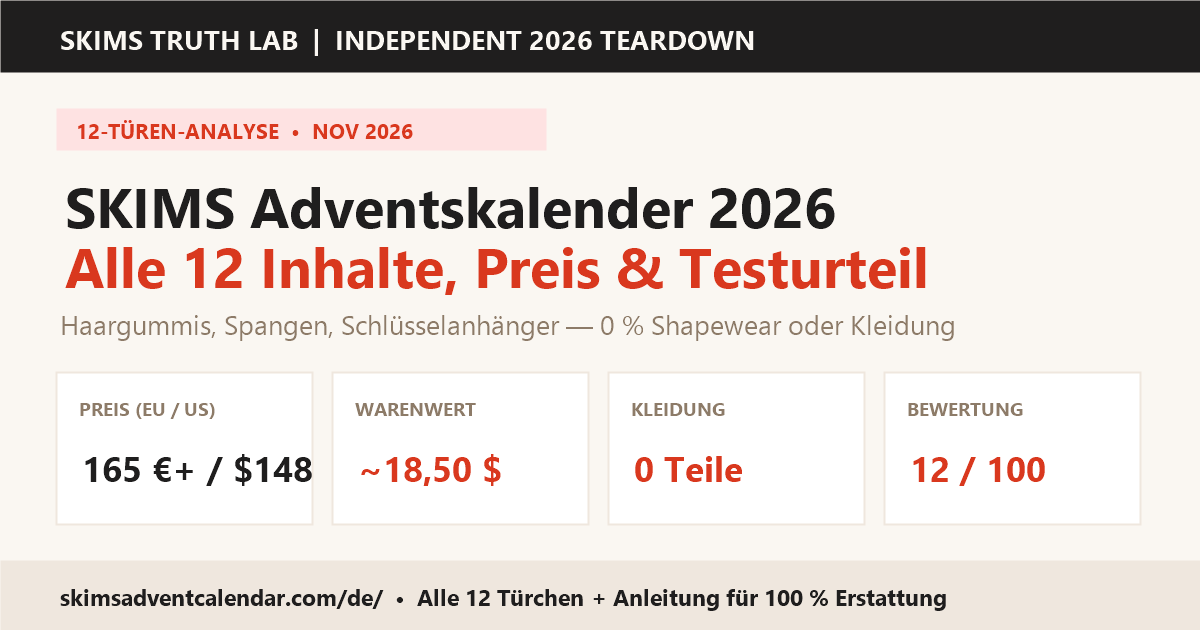
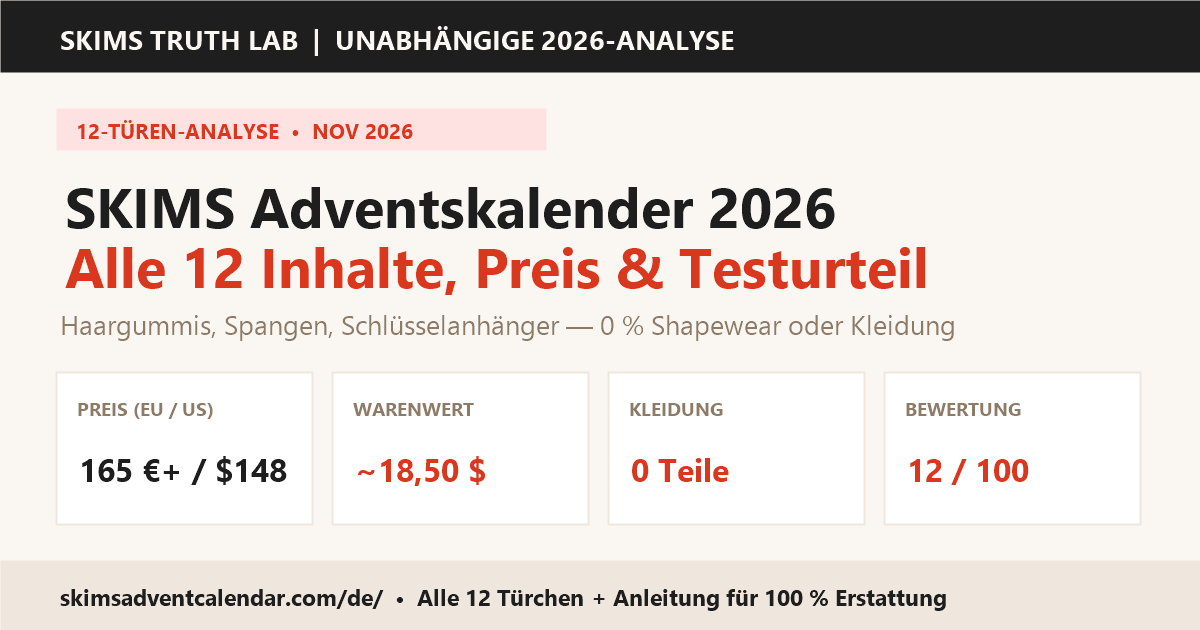
Polish UI: prevent navbar wrapping, align rating badge, localize DE card

diff --git a/de/index.html b/de/index.html
@@ -171,15 +171,15 @@
     </aside>
 
     <header class="border-b border-brand-nude/80 bg-white/95 backdrop-blur">
-      <div class="max-w-6xl mx-auto px-4 h-16 flex items-center justify-between">
-        <div class="flex items-center space-x-3">
-          <a href="/de/" class="text-xl font-black tracking-tight text-brand-charcoal flex items-center">
+      <div class="max-w-6xl mx-auto px-4 h-16 flex items-center justify-between gap-4">
+        <div class="flex items-center shrink-0">
+          <a href="/de/" class="text-xl font-black tracking-tight text-brand-charcoal flex items-center whitespace-nowrap">
             SKIMS<span class="text-brand-accent">TRUTH</span>
-            <span class="ml-2 text-[10px] bg-red-100 text-red-800 font-mono font-bold px-1.5 py-0.5 rounded uppercase">2026 DE</span>
+            <span class="ml-2 text-[10px] bg-red-100 text-red-800 font-mono font-bold px-1.5 py-0.5 rounded uppercase whitespace-nowrap">2026 DE</span>
           </a>
         </div>
 
-        <nav class="hidden lg:flex space-x-5 text-xs uppercase tracking-wider font-bold text-gray-700">
+        <nav class="hidden lg:flex items-center space-x-5 text-xs uppercase tracking-wider font-bold text-gray-700 whitespace-nowrap">
           <a href="#tldr-summary" class="hover:text-brand-accent transition">Kurz-Check</a>
           <a href="#unboxing-sim" class="hover:text-brand-accent transition text-brand-accent">12-Türchen-Simulator</a>
           <a href="#contents-breakdown" class="hover:text-brand-accent transition">Alle 12 Inhalte</a>
@@ -189,11 +189,11 @@
           <a href="#faq" class="hover:text-brand-accent transition">FAQ</a>
         </nav>
 
-        <div class="flex items-center space-x-2">
-          <a href="/" hreflang="en" class="bg-brand-cream border border-brand-nude text-brand-charcoal px-2.5 py-2 rounded-lg text-xs font-bold hover:bg-brand-nude transition" title="English Version">
+        <div class="flex items-center space-x-2 shrink-0">
+          <a href="/" hreflang="en" class="bg-brand-cream border border-brand-nude text-brand-charcoal px-2.5 py-2 rounded-lg text-xs font-bold hover:bg-brand-nude transition whitespace-nowrap" title="English Version">
             EN
           </a>
-          <a href="#unboxing-sim" class="bg-brand-accent text-white px-3.5 py-2 rounded-lg text-xs font-bold hover:bg-red-700 transition shadow-sm">
+          <a href="#unboxing-sim" class="bg-brand-accent text-white px-3.5 py-2 rounded-lg text-xs font-bold hover:bg-red-700 transition shadow-sm whitespace-nowrap">
             12 Türchen öffnen
           </a>
         </div>
@@ -240,23 +240,23 @@
           <div class="grid grid-cols-2 sm:grid-cols-4 gap-3 text-center mb-4">
             <div class="p-3 bg-brand-cream rounded-xl">
               <span class="text-xs text-gray-500 block">Verkaufspreis</span>
-              <span class="text-lg md:text-xl font-extrabold text-brand-charcoal">165 €+ / 148 $</span>
-              <span class="text-[10px] text-gray-500 block">158 £ UK / 276 $ CAD</span>
+              <span class="text-lg md:text-xl font-extrabold text-brand-charcoal whitespace-nowrap">165 €+</span>
+              <span class="text-[10px] text-gray-500 block">148 $ US / 158 £ UK</span>
             </div>
             <div class="p-3 bg-brand-cream rounded-xl">
               <span class="text-xs text-gray-500 block">Realer Warenwert</span>
-              <span class="text-lg md:text-xl font-extrabold text-red-600">~18,50 $</span>
+              <span class="text-lg md:text-xl font-extrabold text-red-600 whitespace-nowrap">~18,50 $</span>
               <span class="text-[10px] text-gray-500 block">Geschätzter EK-Wert</span>
             </div>
             <div class="p-3 bg-brand-cream rounded-xl">
               <span class="text-xs text-gray-500 block">Shapewear / Kleidung</span>
-              <span class="text-lg md:text-xl font-extrabold text-red-600">0 Teile</span>
+              <span class="text-lg md:text-xl font-extrabold text-red-600 whitespace-nowrap">0 Teile</span>
               <span class="text-[10px] text-gray-500 block">0 % Bekleidung</span>
             </div>
             <div class="p-3 bg-brand-cream rounded-xl">
               <span class="text-xs text-gray-500 block">Gesamtbewertung</span>
-              <span class="text-lg md:text-xl font-extrabold text-red-600">12 / 100</span>
-              <span class="text-[10px] text-red-500 font-bold">1,2 / 5 Sterne</span>
+              <span class="text-lg md:text-xl font-extrabold text-red-600 whitespace-nowrap">12 / 100</span>
+              <span class="text-[10px] text-red-500 font-bold block">1,2 / 5 Sterne</span>
             </div>
           </div>
 
@@ -287,19 +287,19 @@
           </h3>
           <ul class="text-xs space-y-2.5">
             <li class="flex justify-between items-center py-1 border-b border-gray-100">
-              <span class="text-gray-600">🇩🇪 Deutschland &amp; 🇪🇺 EU:</span>
+              <span class="text-gray-600 flex items-center gap-2"><span class="bg-brand-cream border border-brand-nude text-[10px] font-mono font-bold px-1.5 py-0.5 rounded text-brand-charcoal">DE</span> Deutschland &amp; EU:</span>
               <span class="font-bold font-mono text-brand-charcoal">165,00 €+ EUR</span>
             </li>
             <li class="flex justify-between items-center py-1 border-b border-gray-100">
-              <span class="text-gray-600">🇺🇸 USA (UVP):</span>
+              <span class="text-gray-600 flex items-center gap-2"><span class="bg-brand-cream border border-brand-nude text-[10px] font-mono font-bold px-1.5 py-0.5 rounded text-brand-charcoal">US</span> USA (UVP):</span>
               <span class="font-bold font-mono text-brand-charcoal">148,00 $ USD</span>
             </li>
             <li class="flex justify-between items-center py-1 border-b border-gray-100">
-              <span class="text-gray-600">🇬🇧 Großbritannien:</span>
+              <span class="text-gray-600 flex items-center gap-2"><span class="bg-brand-cream border border-brand-nude text-[10px] font-mono font-bold px-1.5 py-0.5 rounded text-brand-charcoal">UK</span> Großbritannien:</span>
               <span class="font-bold font-mono text-brand-charcoal">158,00 £ GBP</span>
             </li>
             <li class="flex justify-between items-center py-1">
-              <span class="text-gray-600">🇨🇦 Kanada (inkl. Zoll):</span>
+              <span class="text-gray-600 flex items-center gap-2"><span class="bg-brand-cream border border-brand-nude text-[10px] font-mono font-bold px-1.5 py-0.5 rounded text-brand-charcoal">CA</span> Kanada (inkl. Zoll):</span>
               <span class="font-bold font-mono text-red-600">276,00 $ CAD</span>
             </li>
           </ul>

diff --git a/index.html b/index.html
@@ -208,16 +208,16 @@
 
     <!-- Navbar -->
     <header class="border-b border-brand-nude/80 bg-white/95 backdrop-blur">
-      <div class="max-w-6xl mx-auto px-4 h-16 flex items-center justify-between">
-        <div class="flex items-center space-x-3">
-          <a href="/" class="text-xl font-black tracking-tight text-brand-charcoal flex items-center">
+      <div class="max-w-6xl mx-auto px-4 h-16 flex items-center justify-between gap-4">
+        <div class="flex items-center shrink-0">
+          <a href="/" class="text-xl font-black tracking-tight text-brand-charcoal flex items-center whitespace-nowrap">
             SKIMS<span class="text-brand-accent">TRUTH</span>
-            <span class="ml-2 text-[10px] bg-red-100 text-red-800 font-mono font-bold px-1.5 py-0.5 rounded uppercase">2026 LAB</span>
+            <span class="ml-2 text-[10px] bg-red-100 text-red-800 font-mono font-bold px-1.5 py-0.5 rounded uppercase whitespace-nowrap">2026 LAB</span>
           </a>
         </div>
 
         <!-- Desktop Nav -->
-        <nav class="hidden lg:flex space-x-5 text-xs uppercase tracking-wider font-bold text-gray-700">
+        <nav class="hidden lg:flex items-center space-x-5 text-xs uppercase tracking-wider font-bold text-gray-700 whitespace-nowrap">
           <a href="#tldr-summary" class="hover:text-brand-accent transition">Included &amp; Price</a>
           <a href="#unboxing-sim" class="hover:text-brand-accent transition text-brand-accent">12-Door Simulator</a>
           <a href="#contents-breakdown" class="hover:text-brand-accent transition">All 12 Items</a>
@@ -228,11 +228,11 @@
         </nav>
 
         <!-- Action & Language Switch -->
-        <div class="flex items-center space-x-2">
-          <a href="/de/" hreflang="de" class="bg-brand-cream border border-brand-nude text-brand-charcoal px-2.5 py-2 rounded-lg text-xs font-bold hover:bg-brand-nude transition" title="Deutsche Version: SKIMS Adventskalender 2026">
+        <div class="flex items-center space-x-2 shrink-0">
+          <a href="/de/" hreflang="de" class="bg-brand-cream border border-brand-nude text-brand-charcoal px-2.5 py-2 rounded-lg text-xs font-bold hover:bg-brand-nude transition whitespace-nowrap" title="Deutsche Version: SKIMS Adventskalender 2026">
             DE
           </a>
-          <a href="#unboxing-sim" class="bg-brand-accent text-white px-3.5 py-2 rounded-lg text-xs font-bold hover:bg-red-700 transition shadow-sm">
+          <a href="#unboxing-sim" class="bg-brand-accent text-white px-3.5 py-2 rounded-lg text-xs font-bold hover:bg-red-700 transition shadow-sm whitespace-nowrap">
             Unbox 12 Doors
           </a>
         </div>
@@ -283,23 +283,23 @@
           <div class="grid grid-cols-2 sm:grid-cols-4 gap-3 text-center mb-4">
             <div class="p-3 bg-brand-cream rounded-xl">
               <span class="text-xs text-gray-500 block">Retail Price</span>
-              <span class="text-lg md:text-xl font-extrabold text-brand-charcoal">$148 / £158</span>
+              <span class="text-lg md:text-xl font-extrabold text-brand-charcoal whitespace-nowrap">$148 / £158</span>
               <span class="text-[10px] text-gray-500 block">$276 CAD landed</span>
             </div>
             <div class="p-3 bg-brand-cream rounded-xl">
               <span class="text-xs text-gray-500 block">Real Tangible Value</span>
-              <span class="text-lg md:text-xl font-extrabold text-red-600">~$18.50</span>
+              <span class="text-lg md:text-xl font-extrabold text-red-600 whitespace-nowrap">~$18.50</span>
               <span class="text-[10px] text-gray-500 block">Est. wholesale cost</span>
             </div>
             <div class="p-3 bg-brand-cream rounded-xl">
               <span class="text-xs text-gray-500 block">Shapewear Inside</span>
-              <span class="text-lg md:text-xl font-extrabold text-red-600">0 Items</span>
+              <span class="text-lg md:text-xl font-extrabold text-red-600 whitespace-nowrap">0 Items</span>
               <span class="text-[10px] text-gray-500 block">0% clothing apparel</span>
             </div>
             <div class="p-3 bg-brand-cream rounded-xl">
               <span class="text-xs text-gray-500 block">Worth-It Score</span>
-              <span class="text-lg md:text-xl font-extrabold text-red-600">12 / 100</span>
-              <span class="text-[10px] text-red-500 font-bold">1.2 / 5 Rating</span>
+              <span class="text-lg md:text-xl font-extrabold text-red-600 whitespace-nowrap">12 / 100</span>
+              <span class="text-[10px] text-red-500 font-bold block">1.2 / 5 Rating</span>
             </div>
           </div>
 
@@ -333,19 +333,19 @@
           </h3>
           <ul class="text-xs space-y-2.5">
             <li class="flex justify-between items-center py-1 border-b border-gray-100">
-              <span class="text-gray-600">🇺🇸 United States:</span>
+              <span class="text-gray-600 flex items-center gap-2"><span class="bg-brand-cream border border-brand-nude text-[10px] font-mono font-bold px-1.5 py-0.5 rounded text-brand-charcoal">US</span> United States:</span>
               <span class="font-bold font-mono text-brand-charcoal">$148.00 USD</span>
             </li>
             <li class="flex justify-between items-center py-1 border-b border-gray-100">
-              <span class="text-gray-600">🇬🇧 United Kingdom:</span>
+              <span class="text-gray-600 flex items-center gap-2"><span class="bg-brand-cream border border-brand-nude text-[10px] font-mono font-bold px-1.5 py-0.5 rounded text-brand-charcoal">UK</span> United Kingdom:</span>
               <span class="font-bold font-mono text-brand-charcoal">£158.00 GBP</span>
             </li>
             <li class="flex justify-between items-center py-1 border-b border-gray-100">
-              <span class="text-gray-600">🇨🇦 Canada (with shipping &amp; duty):</span>
+              <span class="text-gray-600 flex items-center gap-2"><span class="bg-brand-cream border border-brand-nude text-[10px] font-mono font-bold px-1.5 py-0.5 rounded text-brand-charcoal">CA</span> Canada (w/ duty):</span>
               <span class="font-bold font-mono text-red-600">$276.00 CAD</span>
             </li>
             <li class="flex justify-between items-center py-1">
-              <span class="text-gray-600">🇪🇺 Germany &amp; Europe:</span>
+              <span class="text-gray-600 flex items-center gap-2"><span class="bg-brand-cream border border-brand-nude text-[10px] font-mono font-bold px-1.5 py-0.5 rounded text-brand-charcoal">EU</span> Germany &amp; Europe:</span>
               <span class="font-bold font-mono text-brand-charcoal">€165.00+ EUR</span>
             </li>
           </ul>

diff --git a/styles.css b/styles.css
@@ -212,6 +212,8 @@ img { height: auto; }
 .text-right { text-align: right; }
 .antialiased { -webkit-font-smoothing: antialiased; -moz-osx-font-smoothing: grayscale; }
 .whitespace-pre-wrap { white-space: pre-wrap; }
+.whitespace-nowrap { white-space: nowrap; }
+.shrink-0 { flex-shrink: 0; }
 .truncate { overflow: hidden; text-overflow: ellipsis; white-space: nowrap; }
 .line-clamp-2 { overflow: hidden; display: -webkit-box; -webkit-box-orient: vertical; -webkit-line-clamp: 2; }
 .list-disc { list-style-type: disc; }
